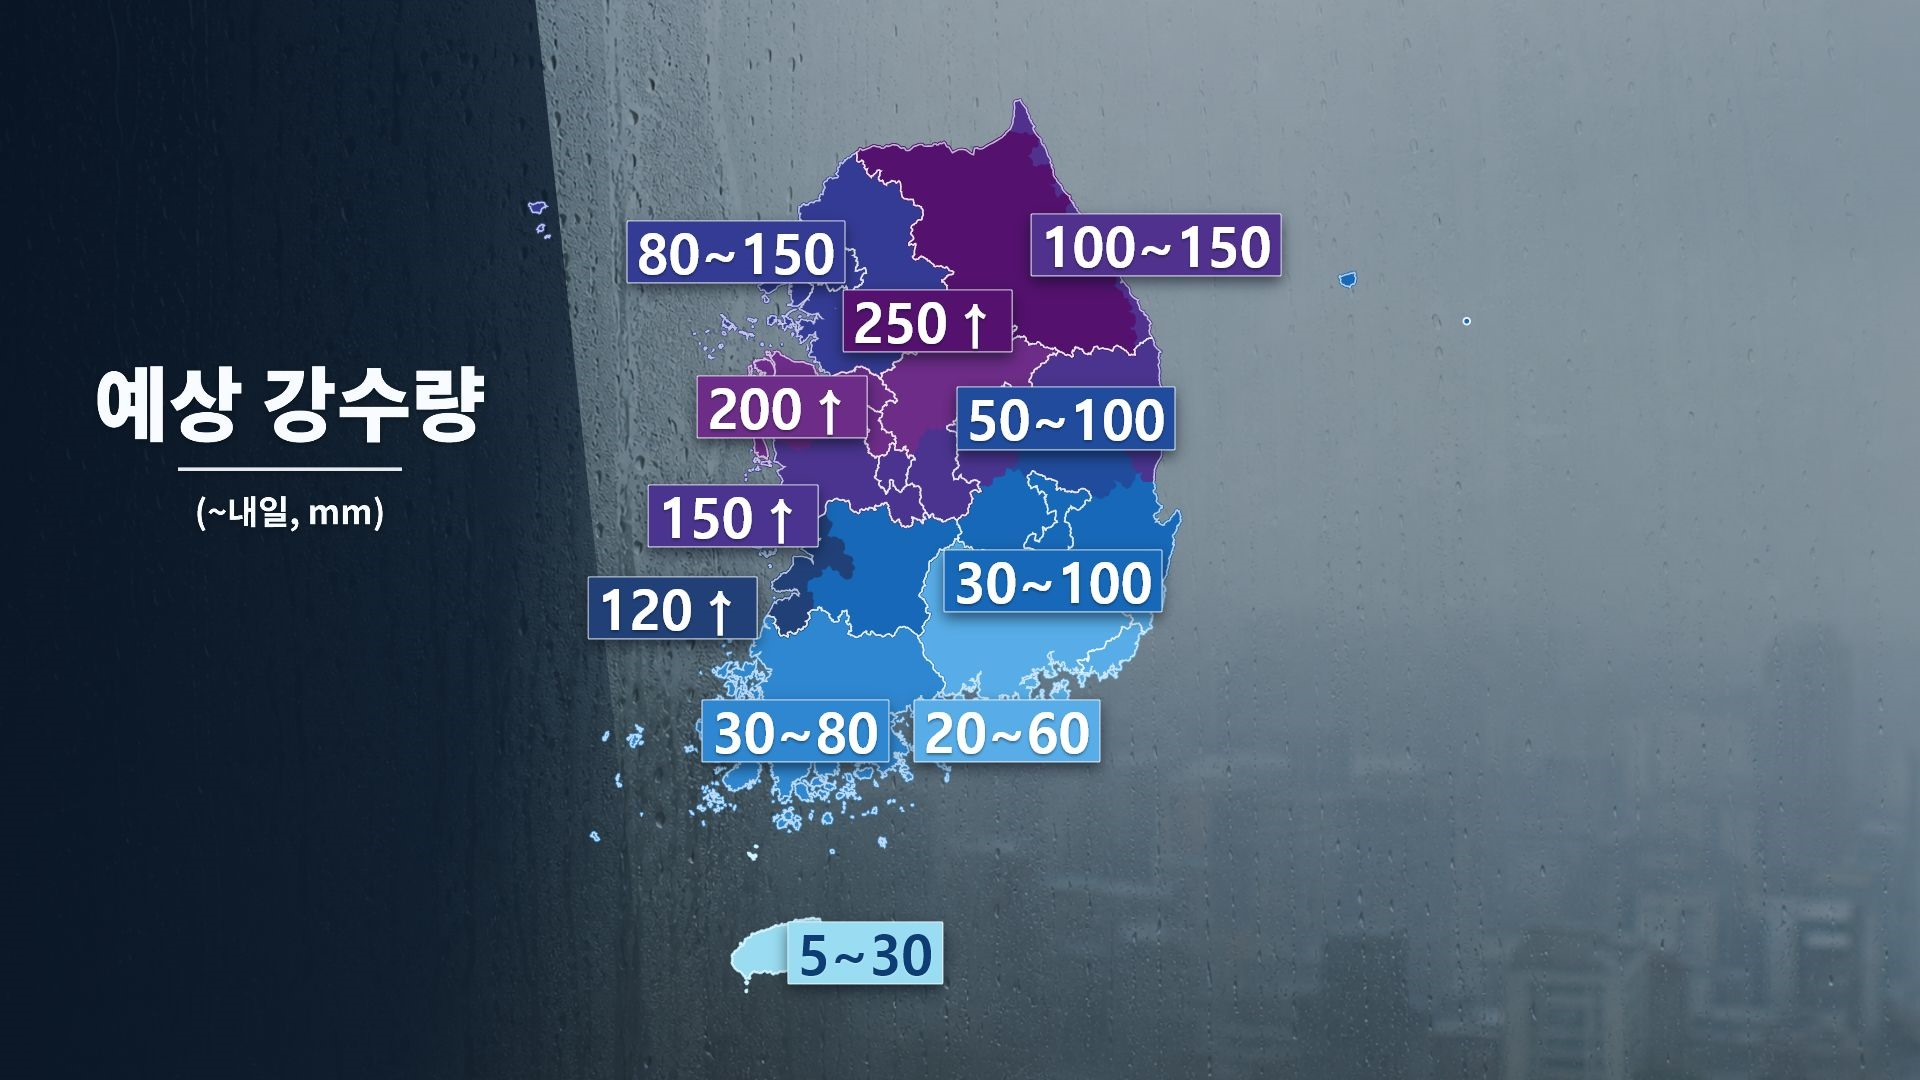
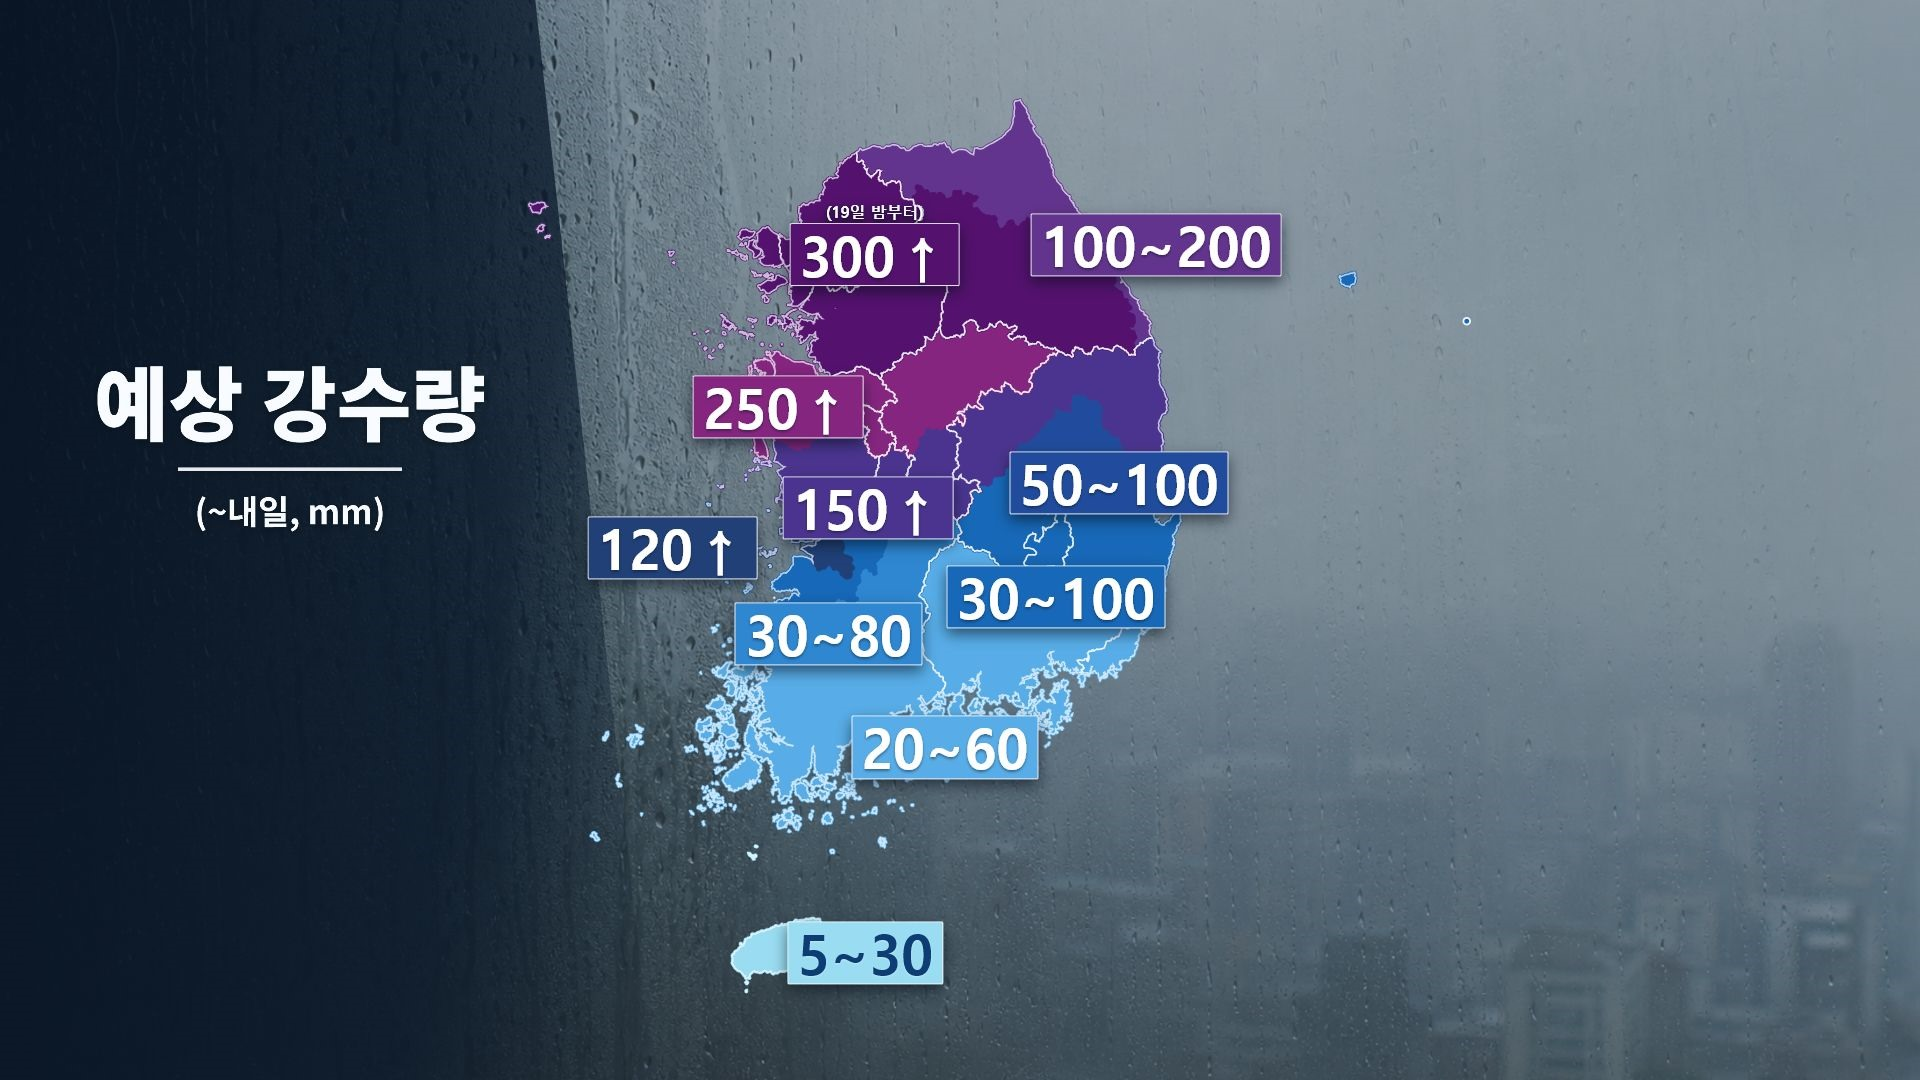
Apply generalized rainfall maximum rules

Changed region(s): [[0.2812, 0.1222, 0.6562, 0.7639], [0.5938, 0.2139, 0.6562, 0.2444]]

diff --git a/src/data/rainGraphicData.js b/src/data/rainGraphicData.js
@@ -91,25 +91,6 @@ const CHUNGBUK_CENTRAL_NORTH = cities(
   '괴산군',
 );
 
-const CHUNGNAM_SOUTH = cities(
-  '충청남도',
-  '공주시',
-  '보령시',
-  '논산시',
-  '계룡시',
-  '금산군',
-  '부여군',
-  '서천군',
-  '청양군',
-);
-
-const CHUNGBUK_SOUTH = cities(
-  '충청북도',
-  '보은군',
-  '옥천군',
-  '영동군',
-);
-
 const GANGWON_CENTRAL_SOUTH_INLAND = cities(
   '강원특별자치도',
   '춘천시',
@@ -173,11 +154,9 @@ const GANGWON_NORTH_MOUNTAIN_EMD = {
   ],
 };
 
-const GANGWON_INLAND_AND_MOUNTAIN = mergeSelectors(
-  GANGWON_NORTH_INLAND,
+const GANGWON_CENTRAL_SOUTH_INLAND_AND_MOUNTAIN = mergeSelectors(
   GANGWON_CENTRAL_SOUTH_INLAND,
   cities('강원특별자치도', '태백시'),
-  GANGWON_NORTH_MOUNTAIN_EMD,
   GANGWON_CENTRAL_SOUTH_MOUNTAIN_EMD,
 );
 
@@ -292,14 +271,6 @@ const JEONBUK_NORTHWEST_COAST = cities(
   '전북특별자치도',
   '군산시',
   '김제시',
-);
-
-const JEONBUK_WEST_COAST = cities(
-  '전북특별자치도',
-  '군산시',
-  '김제시',
-  '고창군',
-  '부안군',
 );
 
 const WEST_SEA_FIVE_ISLANDS = {
@@ -628,61 +599,56 @@ export const RAIN_GRAPHICS = {
       {
         id: '20-60',
         color: '#58ade8',
-        selector: province('부산광역시', '울산광역시', '경상남도'),
+        selector: province(
+          '전남광주통합특별시',
+          '부산광역시',
+          '울산광역시',
+          '경상남도',
+        ),
       },
       {
         id: '30-80',
         color: '#2f87d1',
-        selector: province('전남광주통합특별시'),
+        selector: mergeSelectors(JEONBUK_EAST, WEST_SEA_FIVE_ISLANDS),
       },
       {
         id: '30-100',
         color: '#1768b8',
         selector: mergeSelectors(
-          province('전북특별자치도', '대구광역시'),
+          JEONBUK_WEST,
+          province('대구광역시'),
           GYEONGBUK_SOUTH,
           ULLEUNG_AND_DOKDO,
-          WEST_SEA_FIVE_ISLANDS,
         ),
       },
       {
         id: '50-100',
         color: '#214c9d',
-        selector: mergeSelectors(
-          province('대전광역시', '세종특별자치시', '충청남도', '충청북도'),
-          GYEONGBUK_CENTRAL_NORTH,
-        ),
+        selector: GYEONGBUK_CENTRAL_NORTH,
       },
       {
-        id: '80-150',
-        color: '#343b94',
-        selector: province('서울특별시', '인천광역시', '경기도'),
-      },
-      {
-        id: '100-150',
-        color: '#51318e',
+        id: '100-200',
+        color: '#63348e',
         selector: province('강원특별자치도'),
       },
       {
         id: '120-plus',
         color: '#214078',
-        selector: JEONBUK_WEST_COAST,
+        selector: JEONBUK_NORTHWEST_COAST,
         emphasis: true,
       },
       {
         id: '150-plus',
         color: '#4b348f',
         selector: mergeSelectors(
-          province('대전광역시'),
-          CHUNGNAM_SOUTH,
-          CHUNGBUK_SOUTH,
+          province('대전광역시', '세종특별자치시', '충청남도', '충청북도'),
           GYEONGBUK_NORTH,
         ),
         emphasis: true,
       },
       {
-        id: '200-plus',
-        color: '#6d2c88',
+        id: '250-plus',
+        color: '#85257f',
         selector: mergeSelectors(
           province('세종특별자치시'),
           CHUNGNAM_NORTH,
@@ -691,23 +657,25 @@ export const RAIN_GRAPHICS = {
         emphasis: true,
       },
       {
-        id: '250-plus',
+        id: '300-plus',
         color: '#54116e',
-        selector: GANGWON_INLAND_AND_MOUNTAIN,
+        selector: mergeSelectors(
+          province('서울특별시', '인천광역시', '경기도'),
+          GANGWON_CENTRAL_SOUTH_INLAND_AND_MOUNTAIN,
+        ),
         emphasis: true,
       },
     ],
     labels: [
-      { text: '80~150', lon: 126.2, lat: 37.68, color: '#343b94' },
-      { text: '100~150', lon: 129.38, lat: 37.72, color: '#51318e' },
-      { text: '250↑', lon: 127.65, lat: 37.25, color: '#54116e' },
-      { text: '200↑', lon: 126.55, lat: 36.72, color: '#6d2c88' },
-      { text: '150↑', lon: 126.18, lat: 36.05, color: '#4b348f' },
-      { text: '50~100', lon: 128.7, lat: 36.65, color: '#214c9d' },
-      { text: '30~100', lon: 128.6, lat: 35.65, color: '#1768b8' },
-      { text: '120↑', lon: 125.72, lat: 35.48, color: '#214078' },
-      { text: '30~80', lon: 126.65, lat: 34.72, color: '#2f87d1' },
-      { text: '20~60', lon: 128.25, lat: 34.72, color: '#58ade8' },
+      { text: '300↑', note: '(19일 밤부터)', lon: 127.25, lat: 37.72, color: '#54116e' },
+      { text: '100~200', lon: 129.38, lat: 37.72, color: '#63348e' },
+      { text: '250↑', lon: 126.52, lat: 36.72, color: '#85257f' },
+      { text: '150↑', lon: 127.2, lat: 36.1, color: '#4b348f' },
+      { text: '50~100', lon: 129.1, lat: 36.25, color: '#214c9d' },
+      { text: '30~100', lon: 128.62, lat: 35.55, color: '#1768b8' },
+      { text: '120↑', lon: 125.72, lat: 35.85, color: '#214078' },
+      { text: '30~80', lon: 126.9, lat: 35.32, color: '#2f87d1' },
+      { text: '20~60', lon: 127.78, lat: 34.62, color: '#58ade8' },
       { text: '5~30', lon: 127.18, lat: 33.35, color: '#9adcf1', darkText: true },
     ],
   },

diff --git a/docs/rain-graphic-spec.md b/docs/rain-graphic-spec.md
@@ -40,6 +40,9 @@
   그 세부지역을 **한 단계 더 진한 색의 별도 구역**으로 칠하고 라벨은 "N↑"만 단독 표기.
   본체 범위 라벨에는 많은 곳 값을 합치지 않음. 예: 경기남부만 `200↑`, 그 외 수도권은 `50~150`.
   (세트2: 강원중.북부내륙 120↑ 진남색, 충남북부 80↑ 진파랑)
+- "많은 곳 Nmm 이상"처럼 세부지역이 지정되지 않으면 기본 지역 전체를 `N↑` 구역으로 칠하고 기본 범위는 따로 표시하지 않음
+- 어떤 기본 범위의 최대값과 다른 구역의 많은 곳 기준이 같으면 두 구역을 같은 색으로 칠하고 `N↑` 라벨 하나만 표시
+  (예: `80~150` 구역과 `많은 곳 150mm 이상` 구역은 모두 같은 색의 `150↑`로 통합)
 - 시도 내부가 갈리는 구역(강원내륙.산지/동해안, 충남북부/남부, 충북중.북부/남부,
   경기남부 등)은 시군 조합 매핑으로 처리해야 함
 - 세부 구역은 기상청 공식 예보용어의 시·군·읍면동 정의를 기준으로 매핑하고, 광역도 안에서